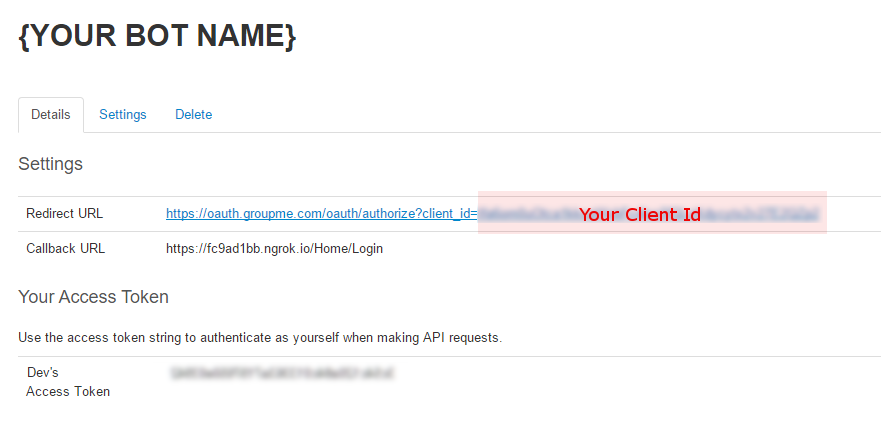
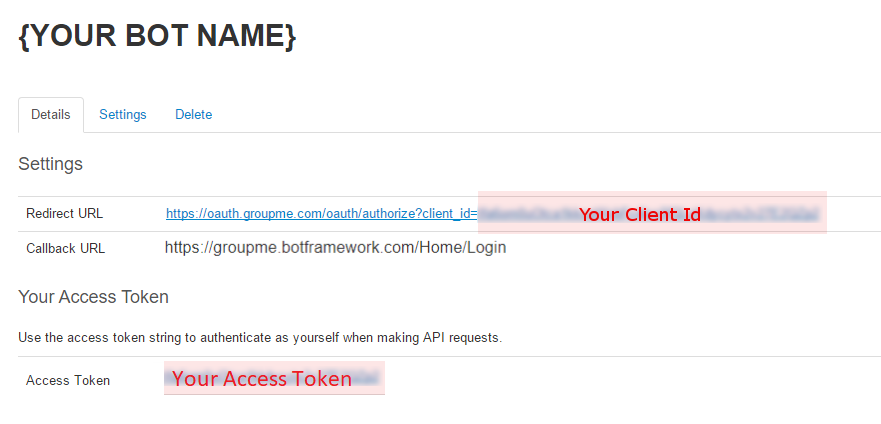
Groupme screencaps (#191)
GroupMe screen changes.

Changed region(s): [[0.1839, 0.5519, 0.5823, 0.6132], [0.1839, 0.8585, 0.4597, 0.9505], [0.0306, 0.8585, 0.1226, 0.9505]]

diff --git a/articles/channel-connect-groupme.md b/articles/channel-connect-groupme.md
@@ -23,25 +23,23 @@ If you don't have a GroupMe account, [sign up for a new account](https://web.gro
 
 [Create a GroupMe application](https://dev.groupme.com/applications/new) for your bot.
 
-Use this callback URL: <code>https://groupme.botframework.com/Home/Login</code>
+Use this callback URL: `https://groupme.botframework.com/Home/Login`
 
 ![Create app](~/media/channels/GM-StepApp.png)
 
 ## Gather credentials
 
-Copy the **Client ID** section from the redirect URL.
+1. In the **Redirect URL** field, copy the value after **client_id=**.
+2. Copy the **Access Token** value.
 
-![Copy client ID](~/media/channels/GM-StepClientId.png)
+![Copy client ID and access token](~/media/channels/GM-StepClientId.png)
+
 
 ## Submit credentials
 
-1. Paste the Client ID you just copied into the **Client ID** field.
-2. Click **Submit GroupMe Credentials**.
-![Enter credentials](~/media/channels/GM-StepApp.png)
+1. On dev.botframework.com, paste the **client_id** value you just copied into the **Client ID** field.
+2. Paste the **Access Token** value into the **Access Token** field.
+2. Click **Save**.
 
-## Enable the bot
-Check **Enable this bot on GroupMe**. Then click **I'm done configuring GroupMe**.
-
-When you have completed these steps, your bot will be successfully configured to communicate with users in GroupMe.
-
+![Enter credentials](~/media/channels/GM-StepClientIDToken.png)
 
